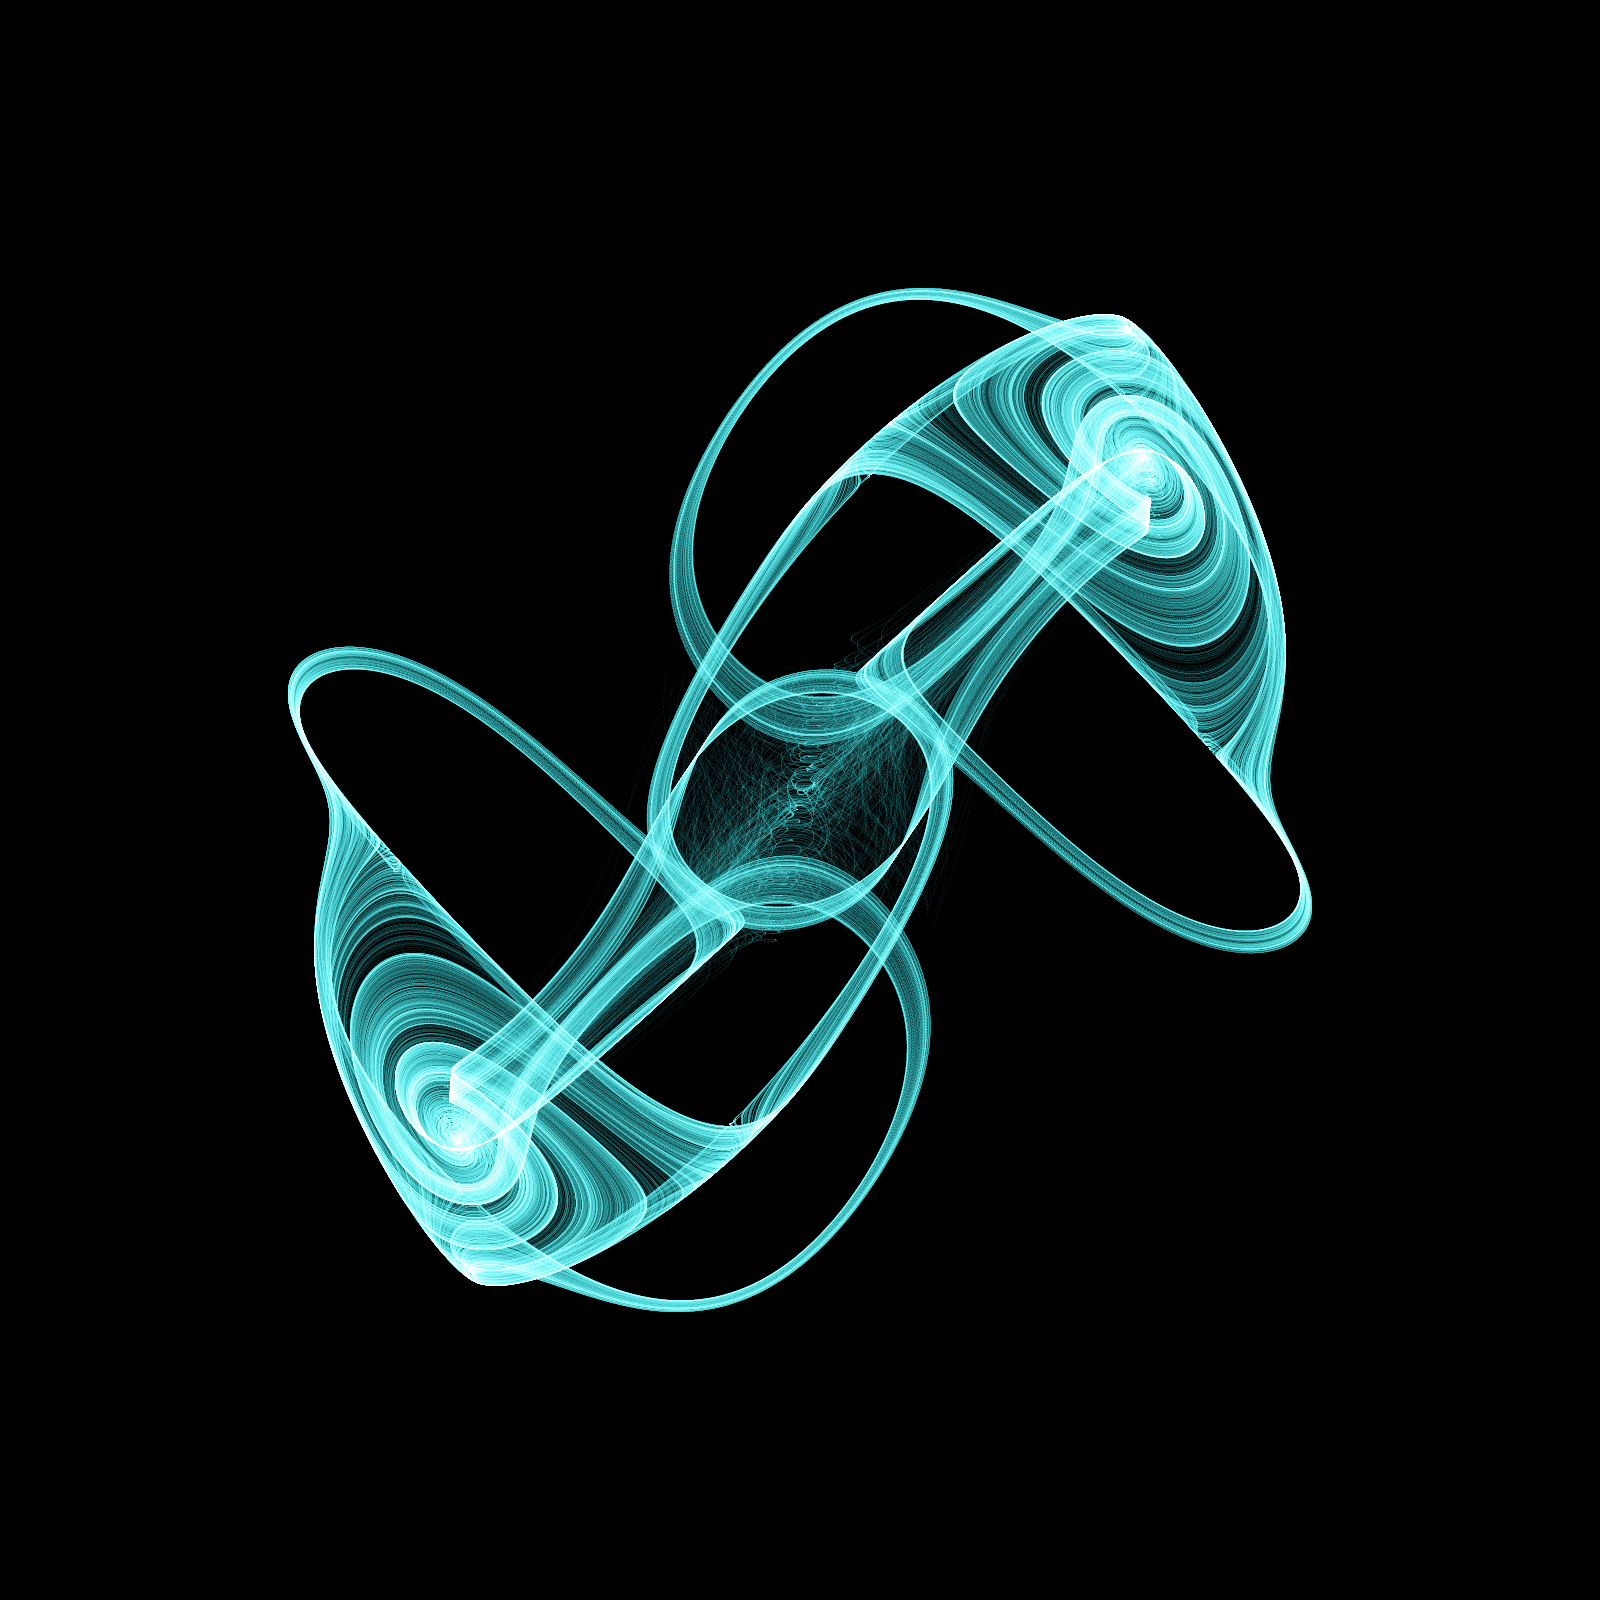
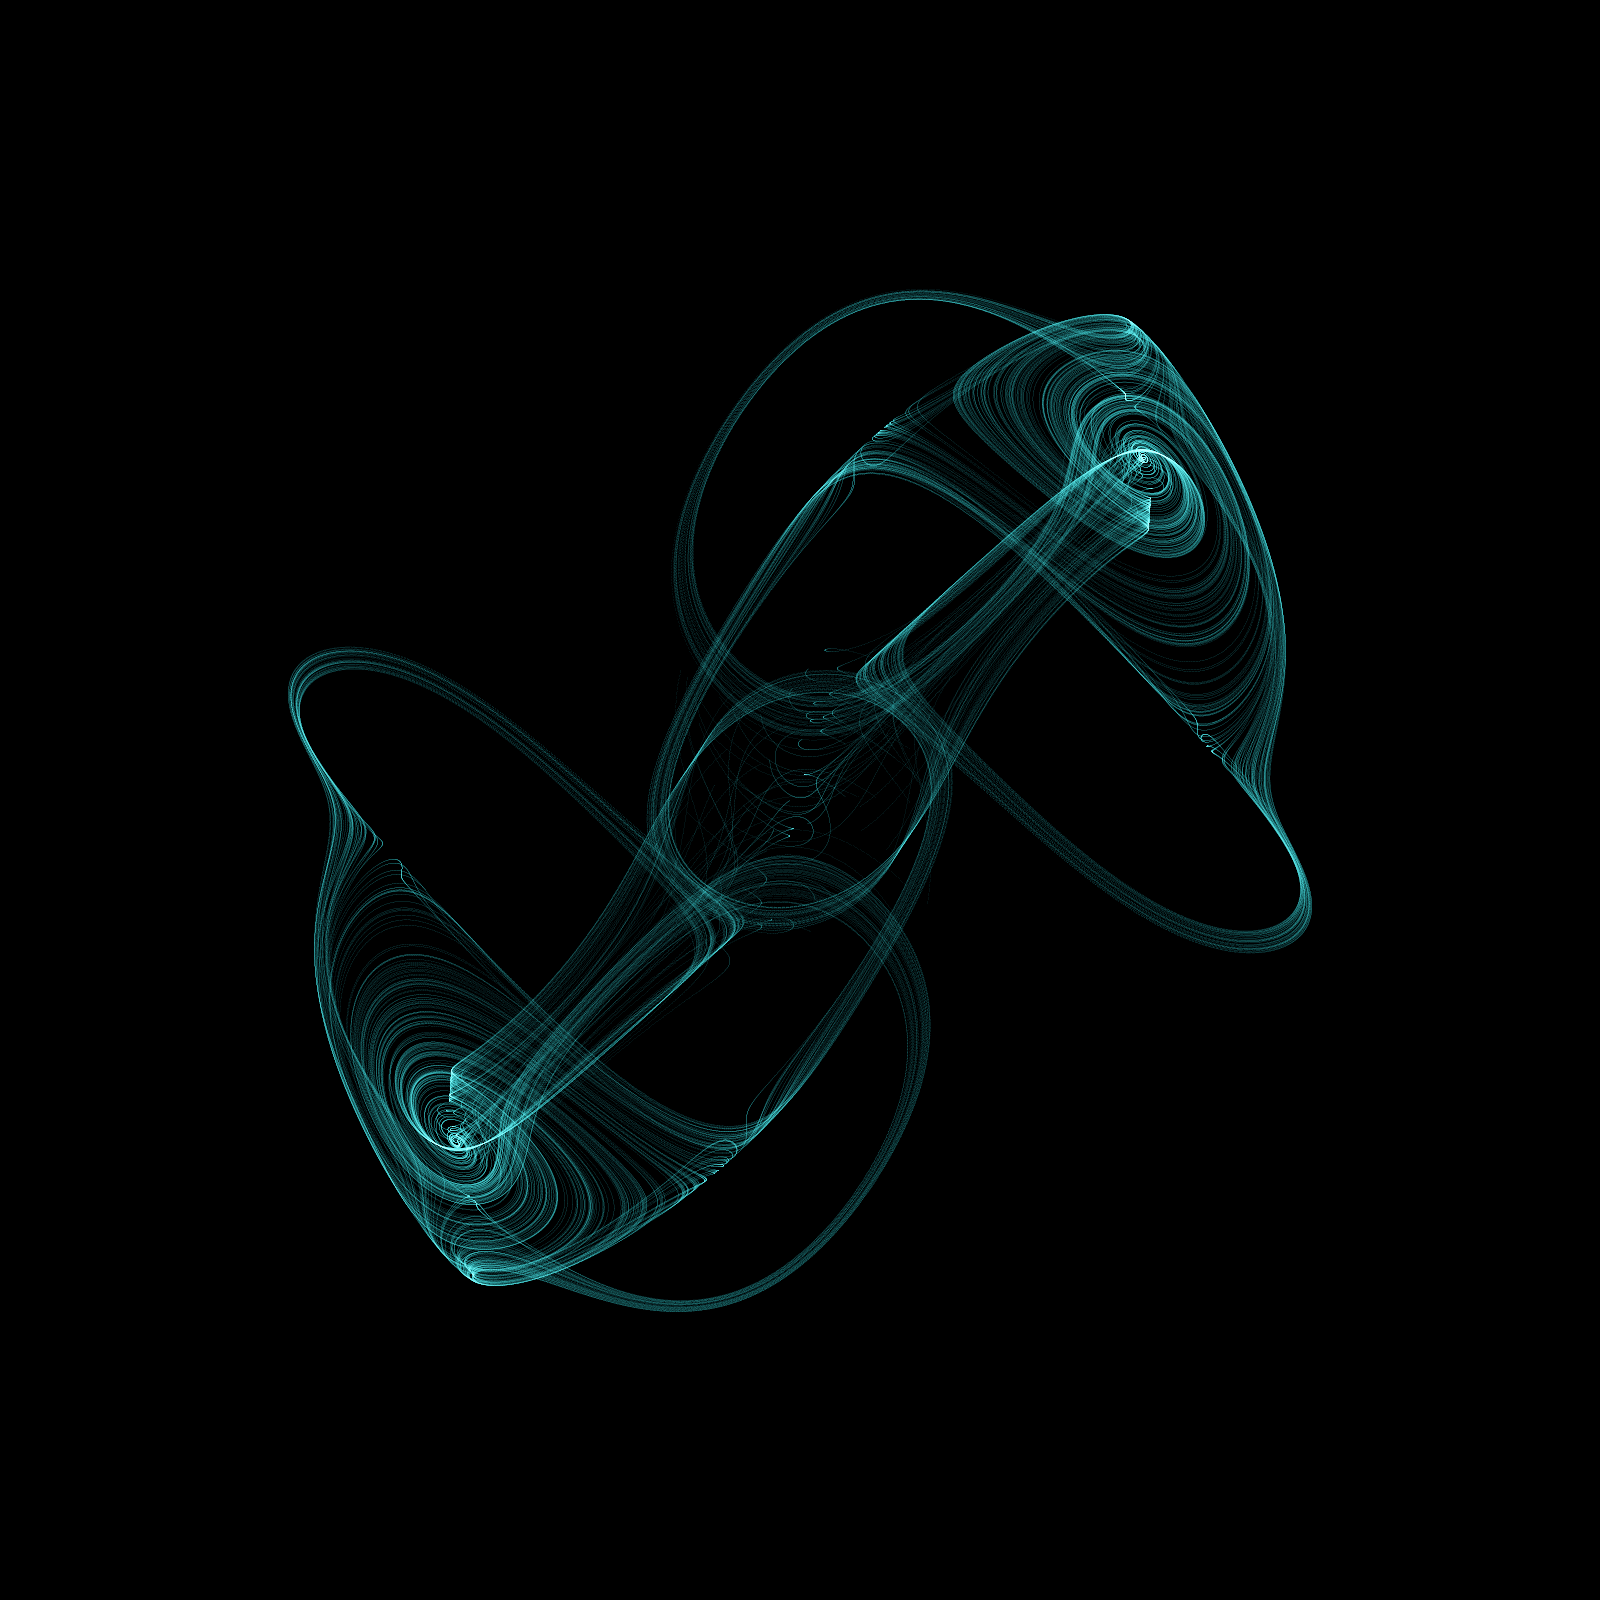
Add generative tests

Changed region(s): [[0.1562, 0.1562, 0.8438, 0.8438], [0.5, 0.75, 0.5312, 0.7812], [0.4688, 0.2188, 0.5, 0.25]]

diff --git a/GenerativeArt/Attractor.py b/GenerativeArt/Attractor.py
@@ -4,6 +4,7 @@ import numpy as np
 import math
 import matplotlib
 import matplotlib.pyplot as plt
+from pathlib import Path
 
 def thomas(x, y, z, b=0.208186):
     x_prime = math.sin(y) - b * x
@@ -12,7 +13,7 @@ def thomas(x, y, z, b=0.208186):
     return x_prime, y_prime, z_prime
 
 # how many steps we propagate
-nb_iters = int(1e5)
+nb_iters = int(1e6)
 nb_particles = int(1e4)
 dt = 0.01
 
@@ -71,7 +72,8 @@ for i in range(h):
 
 im = im.astype(np.uint8)
 
-plt.imsave('thomas.png', im, dpi=600, origin='lower')
+path = Path('./GenerativeArt/')
+plt.imsave(path / 'thomas.png', im, dpi=600, origin='lower')
 
 plt.axis('off')
 plt.imshow(im)

diff --git a/Multiprocessing/processing.py b/Multiprocessing/processing.py
@@ -1,0 +1,2 @@
+import multiprocessing
+
